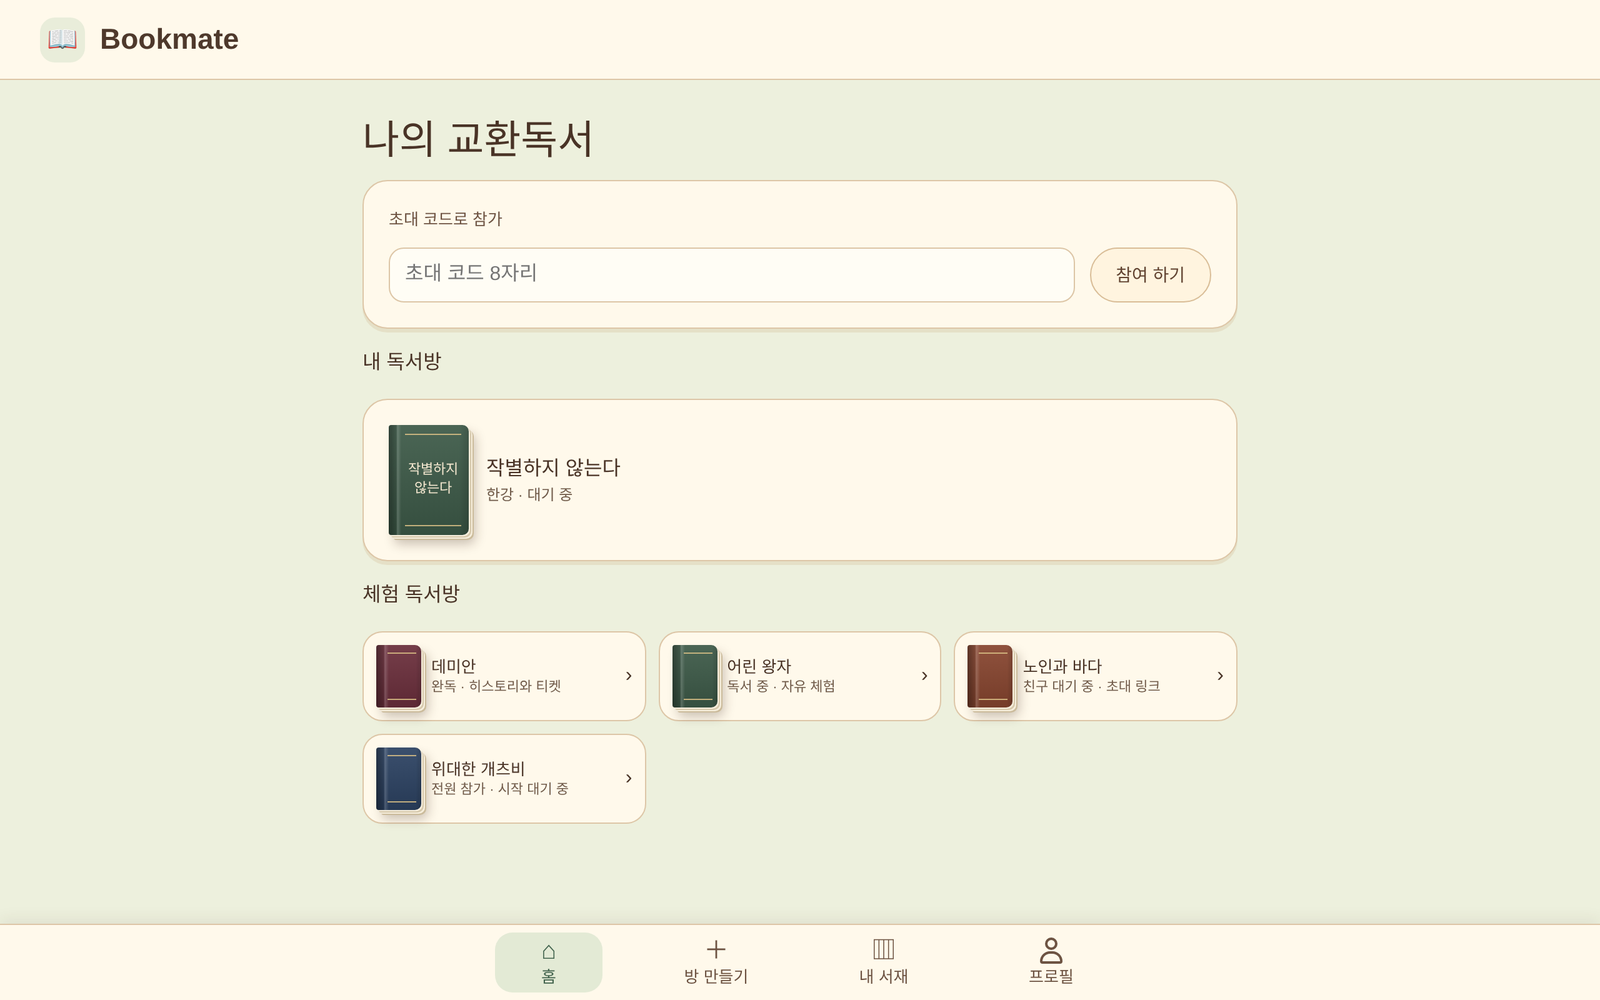
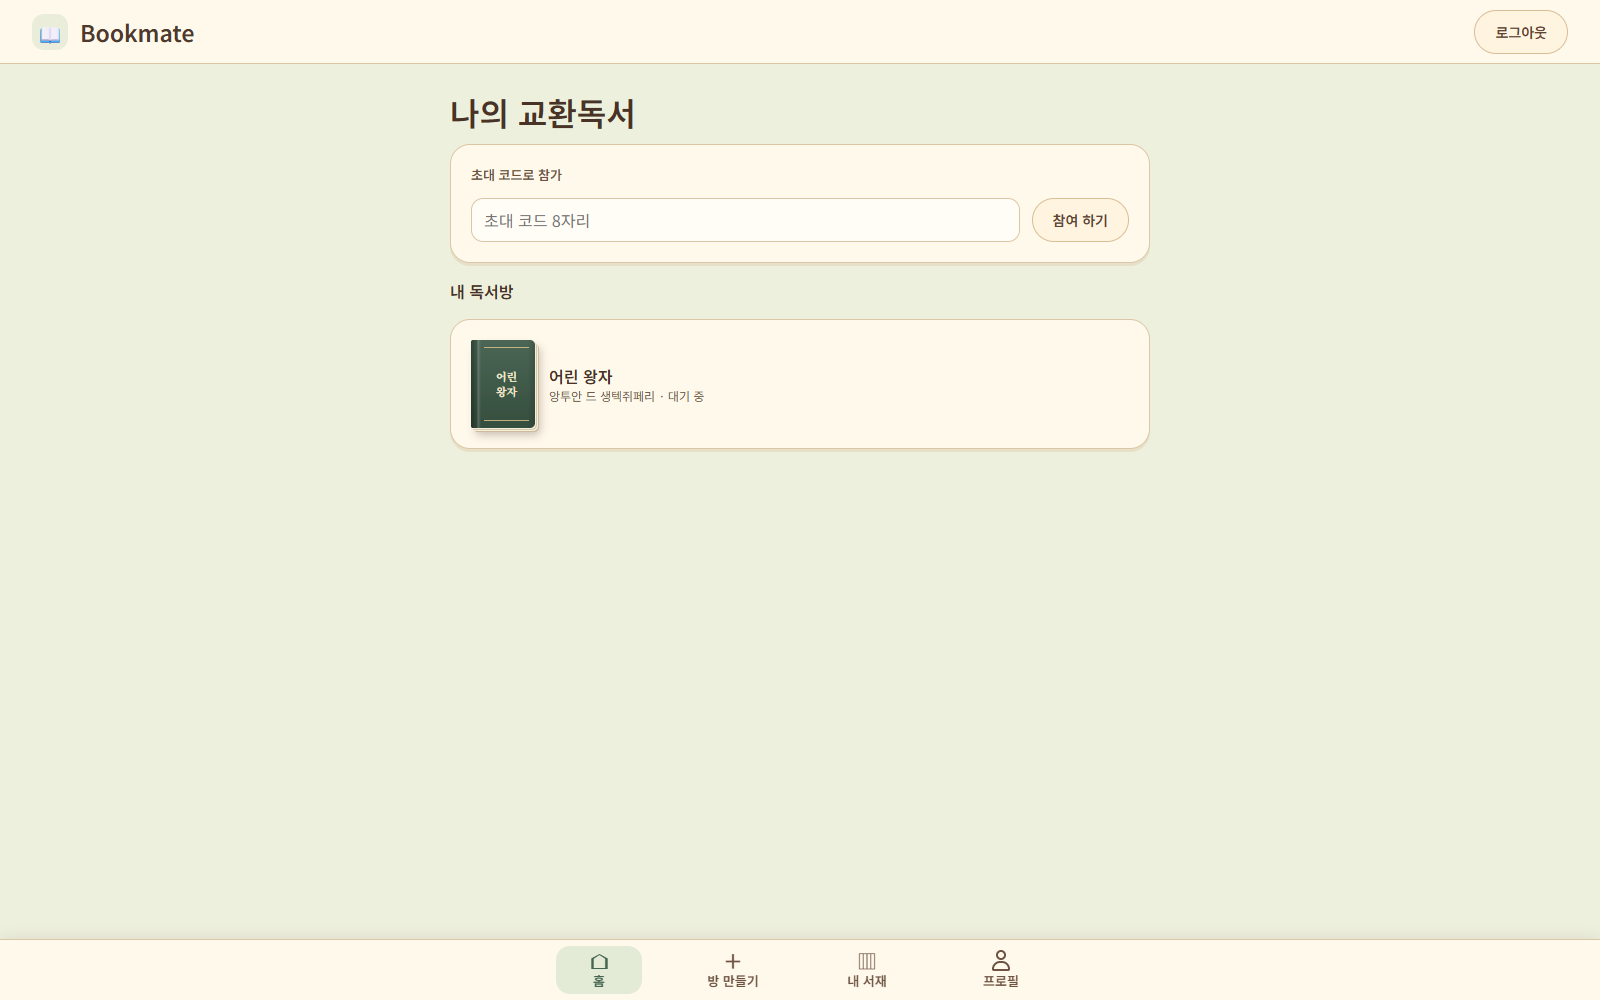
홈과 로그인 화면에서 로컬 체험방 입구 제거

diff --git a/apps/room-prototype/public/exchange.css b/apps/room-prototype/public/exchange.css
@@ -345,7 +345,7 @@ body.reading-ui {
 .history-reader blockquote { margin: 0; padding-left: 10px; border-left: 2px solid #c6a483; }
 /* 책 표지: 천 양장본처럼 책등 접힘 그림자, 오른쪽·아래로 보이는 종이 단면, 금박 선을 그립니다.
    색은 인라인 background-color(테마)로 받고, 질감은 background-image로 겹칩니다. */
-.exchange-cover, .sample-cover {
+.exchange-cover {
   position: relative; display: grid; place-items: center; flex-shrink: 0; width: 64px; height: 88px;
   padding: 12px 6px 12px 13px; border: 0; border-radius: 2px 5px 5px 2px;
   color: #f3e7cf; background-color: #3d5a48;
@@ -357,11 +357,11 @@ body.reading-ui {
   text-align: center; word-break: keep-all; overflow-wrap: anywhere;
   box-shadow: 1px 1px 0 #f6eedc, 2px 2px 0 #d6c8ab, 3px 3px 0 #f6eedc, 4px 4px 0 #cbbb9b, 5px 7px 9px #3a241a47;
 }
-.exchange-cover::before, .exchange-cover::after, .sample-cover::before, .sample-cover::after {
+.exchange-cover::before, .exchange-cover::after {
   content: ""; position: absolute; left: 13px; right: 6px; height: 1px; background: #d9bf86; opacity: .85;
 }
-.exchange-cover::before, .sample-cover::before { top: 7px; }
-.exchange-cover::after, .sample-cover::after { bottom: 7px; }
+.exchange-cover::before { top: 7px; }
+.exchange-cover::after { bottom: 7px; }
 .exchange-book { display: flex; align-items: center; gap: 14px; min-width: 0; }
 .exchange-book > div { min-width: 0; overflow-wrap: anywhere; }
 #finish-status { color: var(--mint); }
@@ -401,22 +401,6 @@ body.exchange .button.secondary:hover, body.reading-ui .button.secondary:hover {
 #share-invite { justify-self: start; margin-top: 4px; }
 #invite-status:empty { display: none; }
 #invite-status { color: var(--mint); font-size: 13px; }
-.sample-rooms { display: grid; grid-template-columns: repeat(3, minmax(0, 1fr)); gap: 10px; }
-.sample-card {
-  display: grid; grid-template-columns: auto 1fr auto; align-items: center; gap: 8px;
-  padding: 10px; border-radius: 16px; background: var(--surface); border: 1px solid #ddc6a7;
-  text-decoration: none; color: var(--text); min-width: 0;
-}
-.sample-card:hover { background: #fff2db; }
-.sample-cover { width: 36px; height: 50px; padding: 0; }
-.sample-cover::before, .sample-cover::after { left: 9px; right: 4px; }
-.sample-cover::before { top: 6px; } .sample-cover::after { bottom: 6px; }
-.sample-cover.plum { background-color: #6b2f3c; }
-.sample-cover.mint { background-color: #3d5a48; }
-.sample-cover.rust { background-color: #87452f; }
-.sample-cover.blue { background-color: #2c4262; }
-.sample-card small { display: block; color: var(--muted); font-size: 11px; line-height: 1.4; }
-.sample-card strong { font-size: 13px; }
 .reading-ui .sidebar { min-height: 0; border-color: #ddc6a7; }
 @media (min-width: 600px) and (max-width: 950px) and (max-height: 500px) {
   .reading-ui .topbar { height: 44px; padding-inline: 16px; }
@@ -468,7 +452,6 @@ body.exchange .button.secondary:hover, body.reading-ui .button.secondary:hover {
 .reading-ui .avatar-label.active:not(.offline), .reading-ui .room-overlay span:first-child { color: #cce8b7; }
 .reading-ui #action-state { color: #f1eadb; }
 @media (max-width: 640px) {
-  .sample-rooms { grid-template-columns: 1fr; }
 }
 @media (max-width: 380px) {
   .exchange-main { padding-inline: 12px; }

diff --git a/apps/room-prototype/public/account.js b/apps/room-prototype/public/account.js
@@ -84,7 +84,7 @@ export async function ensureAccount() {
       dialog.id = "account-dialog";
       // Static form markup; all server/user messages below use textContent.
       dialog.innerHTML =
-        '<form id="account-form"><h2>로그인</h2><label>이메일<input name="email" type="email" required autocomplete="email"></label><label>비밀번호<input name="password" type="password" minlength="10" maxlength="128" required autocomplete="current-password"></label><p id="account-status" role="status"></p><div class="record-actions"><button type="submit" class="button primary">로그인</button><button id="account-switch" type="button" class="button secondary">회원가입</button></div><a href="/room.html">로컬 체험방</a></form>';
+        '<form id="account-form"><h2>로그인</h2><label>이메일<input name="email" type="email" required autocomplete="email"></label><label>비밀번호<input name="password" type="password" minlength="10" maxlength="128" required autocomplete="current-password"></label><p id="account-status" role="status"></p><div class="record-actions"><button type="submit" class="button primary">로그인</button><button id="account-switch" type="button" class="button secondary">회원가입</button></div></form>';
       document.body.append(dialog);
       dialog.addEventListener("cancel", (event) => event.preventDefault());
       dialog.showModal();

diff --git a/apps/room-prototype/public/home.html b/apps/room-prototype/public/home.html
@@ -24,13 +24,6 @@
       </form>
       <h2>내 독서방</h2>
       <div id="room-list" class="exchange-list"></div>
-      <div class="exchange-heading"><h2>체험 독서방</h2></div>
-      <div class="sample-rooms">
-        <a class="sample-card" href="/?screen=demo&amp;state=complete"><span class="sample-cover plum" aria-hidden="true"></span><span><strong>데미안</strong><small>완독 · 히스토리와 티켓</small></span><span aria-hidden="true">›</span></a>
-        <a class="sample-card" href="/room.html"><span class="sample-cover mint" aria-hidden="true"></span><span><strong>어린 왕자</strong><small>독서 중 · 자유 체험</small></span><span aria-hidden="true">›</span></a>
-        <a class="sample-card" href="/?screen=demo&amp;state=waiting"><span class="sample-cover rust" aria-hidden="true"></span><span><strong>노인과 바다</strong><small>친구 대기 중 · 초대 링크</small></span><span aria-hidden="true">›</span></a>
-        <a class="sample-card" href="/?screen=demo&amp;state=ready"><span class="sample-cover blue" aria-hidden="true"></span><span><strong>위대한 개츠비</strong><small>전원 참가 · 시작 대기 중</small></span><span aria-hidden="true">›</span></a>
-      </div>
     </section>
     <section id="create-view" hidden>
       <div class="exchange-heading"><h1>방 만들기</h1></div>

diff --git a/README.md b/README.md
@@ -37,7 +37,7 @@
 | 나의 교환독서 | 방 만들기 |
 | :---: | :---: |
 | <img src="docs/screenshots/home.png" alt="홈 화면" width="420"> | <img src="docs/screenshots/create-room.png" alt="방 만들기 화면" width="420"> |
-| 참여 중인 방과 체험용 독서방을 한눈에 봐요. 초대 코드 8자리로 바로 참가할 수 있어요. | 책 제목·저자·참여 인원(2~10명)·표지 색을 고르면 표지가 바로 미리 보여요. |
+| 참여 중인 독서방을 한눈에 봐요. 초대 코드 8자리로 바로 참가할 수 있어요. | 책 제목·저자·참여 인원(2~10명)·표지 색을 고르면 표지가 바로 미리 보여요. |
 
 ### 대기실 · 독서방
 
@@ -78,7 +78,7 @@ cd Bookmate
 node apps/room-prototype/server.js
 ```
 
-브라우저에서 **http://localhost:5173** 을 열면 돼요. Node.js **24**가 필요해요. 홈의 **체험 독서방** 네 개로 진행 단계별 화면(대기, 독서 중, 완독)을 바로 볼 수 있어요.
+브라우저에서 **http://localhost:5173** 을 열면 돼요. Node.js **24**가 필요해요. 대기 중인 체험방은 [대기 화면](http://localhost:5173/?screen=demo&state=waiting)에서 열 수 있어요.
 
 ### 방법 2. 회원가입·DB까지 전체 실행 (Docker 필요)
 
